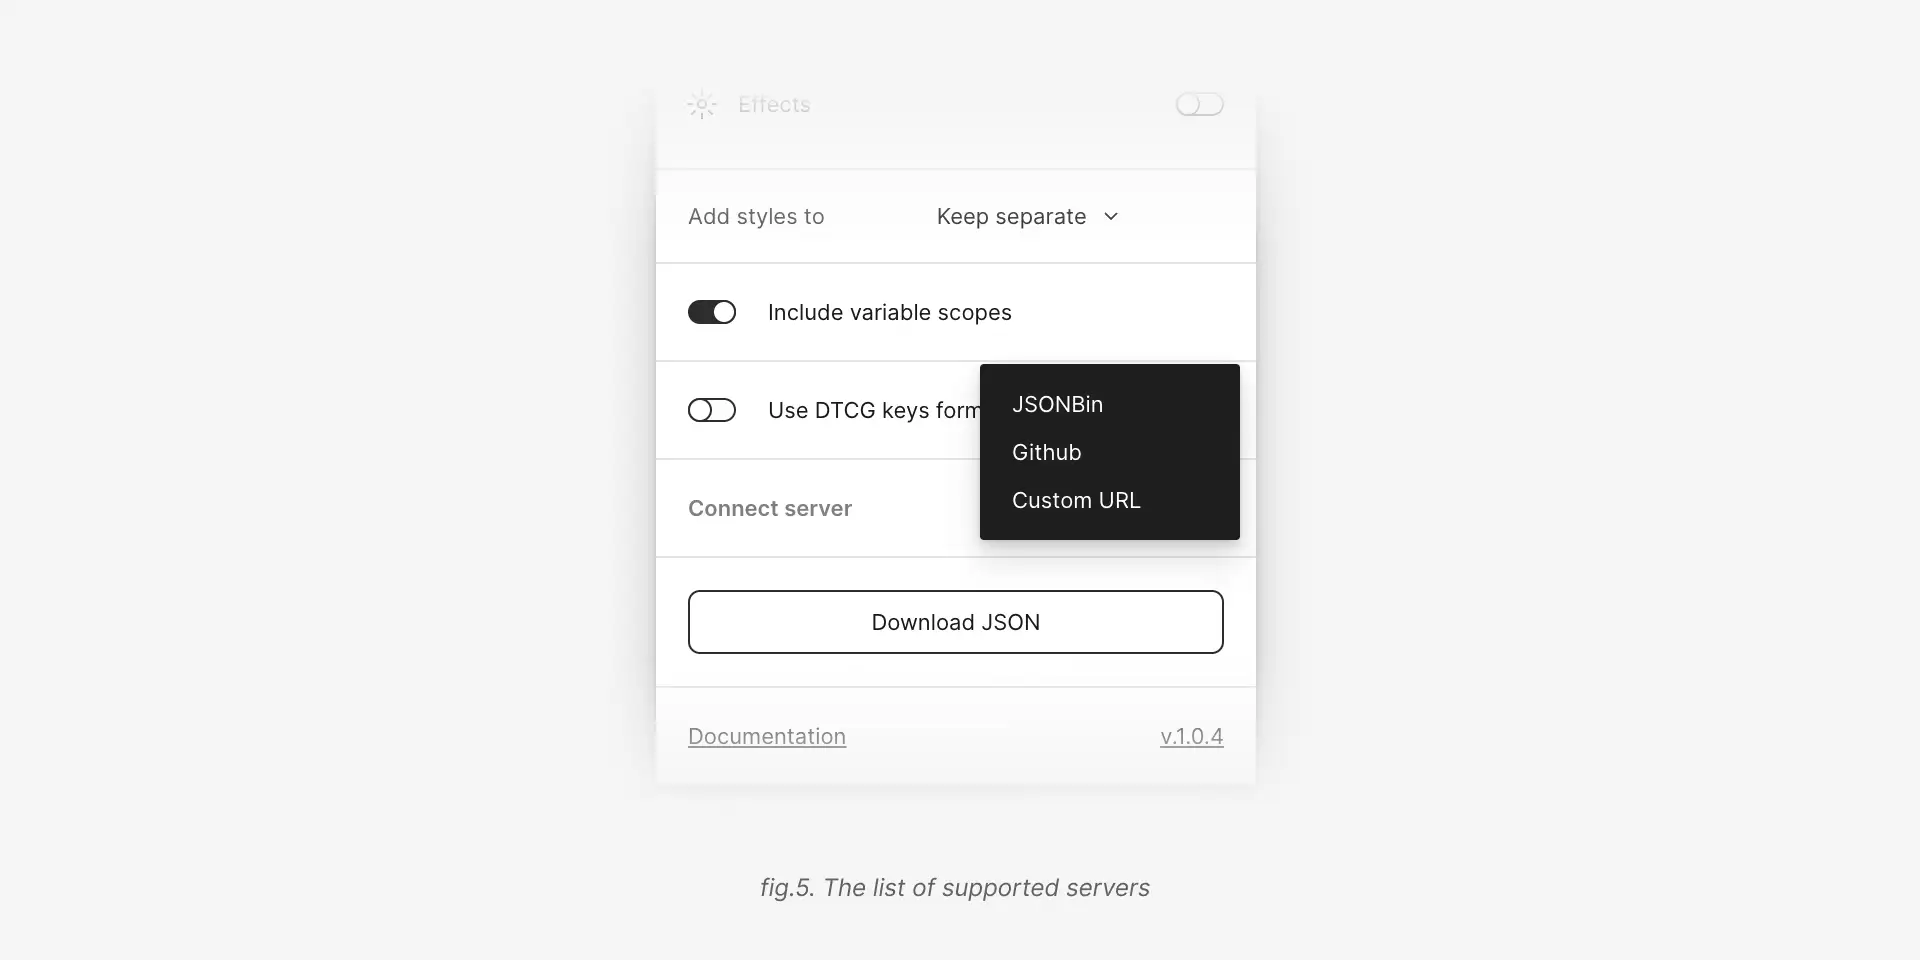
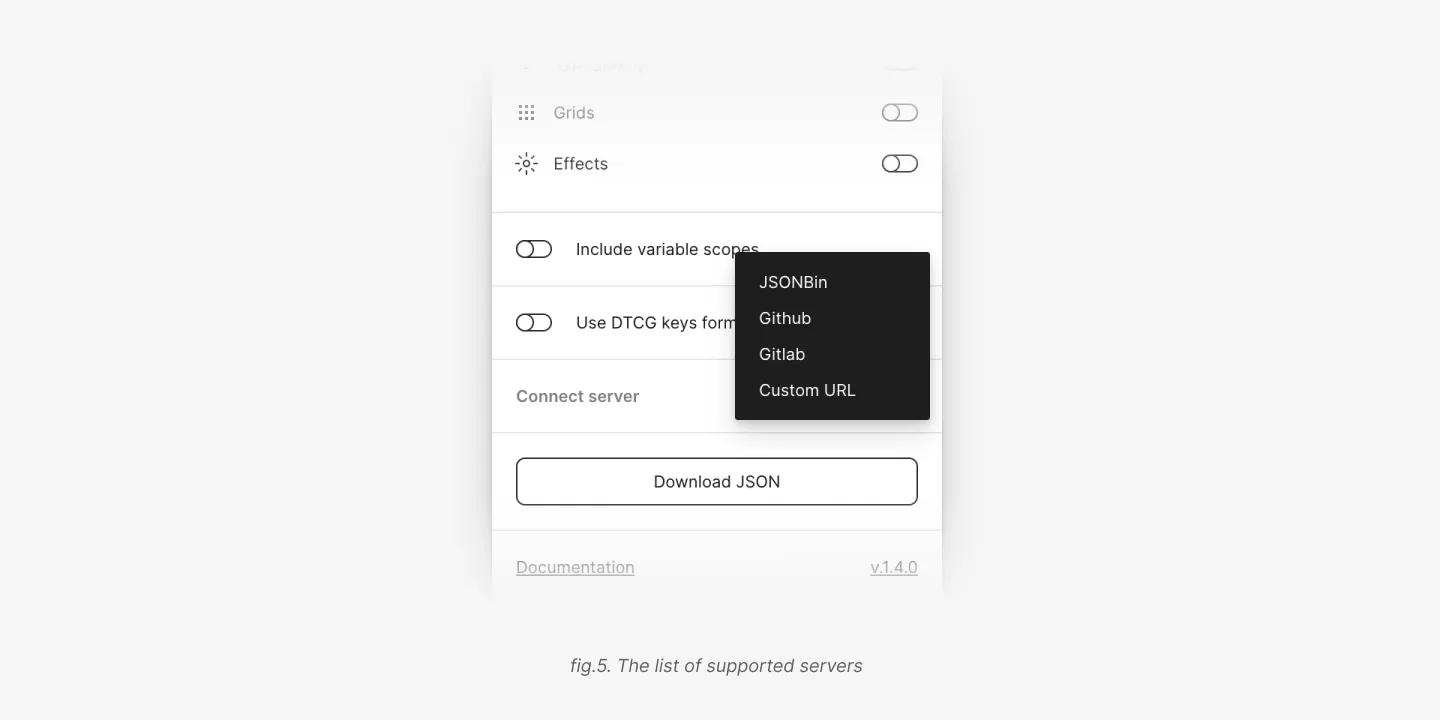
:pencil: readme update

diff --git a/README.md b/README.md
@@ -25,6 +25,7 @@ The plugin converts Figma variables into design-tokens JSON that are compatible 
   - [Connect server](#connect-server)
     - [JSONBin](#jsonbin)
     - [GitHub](#github)
+    - [GitLab](#gitlab)
     - [Custom server](#custom-server)
   - [Show output](#show-output)
   - [Config autosaving](#config-autosaving)
@@ -151,12 +152,21 @@ In ordere to test if your credentials are valid you can make a test request by c
 ### [GitHub](https://github.com)
 
 1. You need to create a [personal access token](https://docs.github.com/en/github/authenticating-to-github/creating-a-personal-access-token) with `repo` scope.
-2. In the plugin settings paste the token into the `Token` field.
+2. In the plugin settings paste the token into the `Personal access token` field.
 3. Add an owner name, repository name and a branch name.
-4. In the file name field you can specify a path to the file. If the file doesn't exist, it will be created. If the file exists, it will be overwritten.
+4. In the file name field you can specify a path to the file. If the file doesn't exist, it will be created. If the file exists, it will be overwritten. File name should include the file extension, e.g. `tokens.json`.
 5. You can also specify a commit message.
 
 ![fig.8](readme-assets/fig8.webp)
+
+### [GitLab](https://gitlab.com)
+
+1. You need to create a [project access token](https://docs.gitlab.com/ee/user/project/settings/project_access_tokens.html) with `api` scope.
+2. In the plugin settings paste the token into the `Project access token` field.
+3. Add an owner name, repository name and a branch name.
+4. In the file name field you can specify a path to the file. If the file doesn't exist, it will be created. If the file exists, it will be overwritten. File name should include the file extension, e.g. `tokens.json`. 5. You can also specify a commit message.
+
+![fig.11](readme-assets/fig11.webp)
 
 ### Custom server
 
